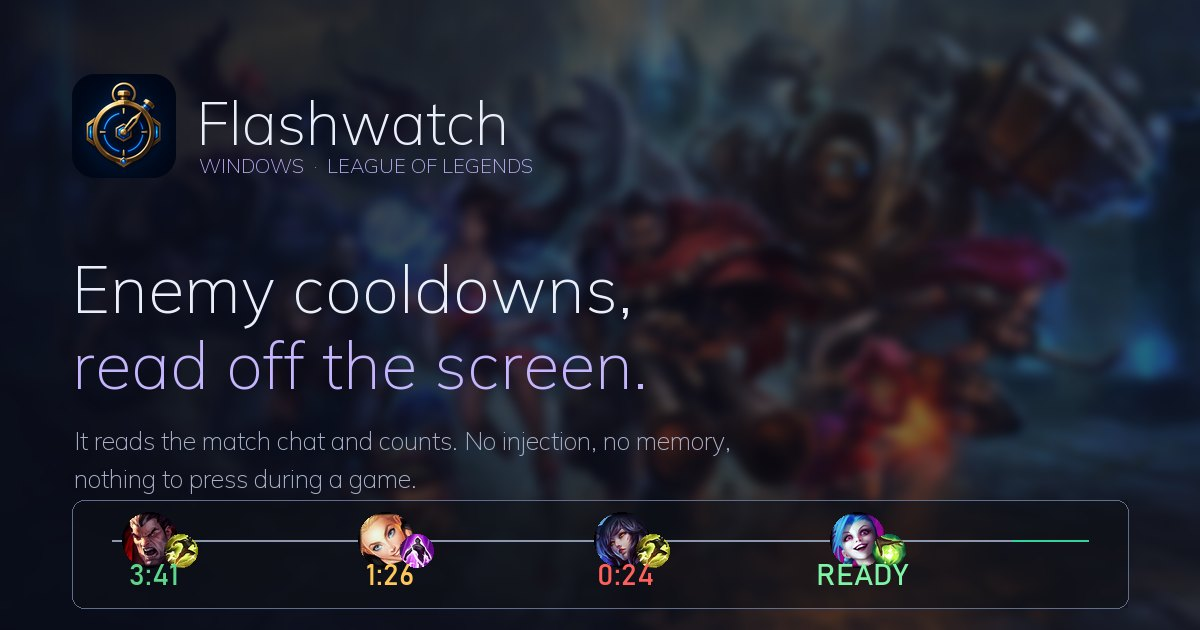
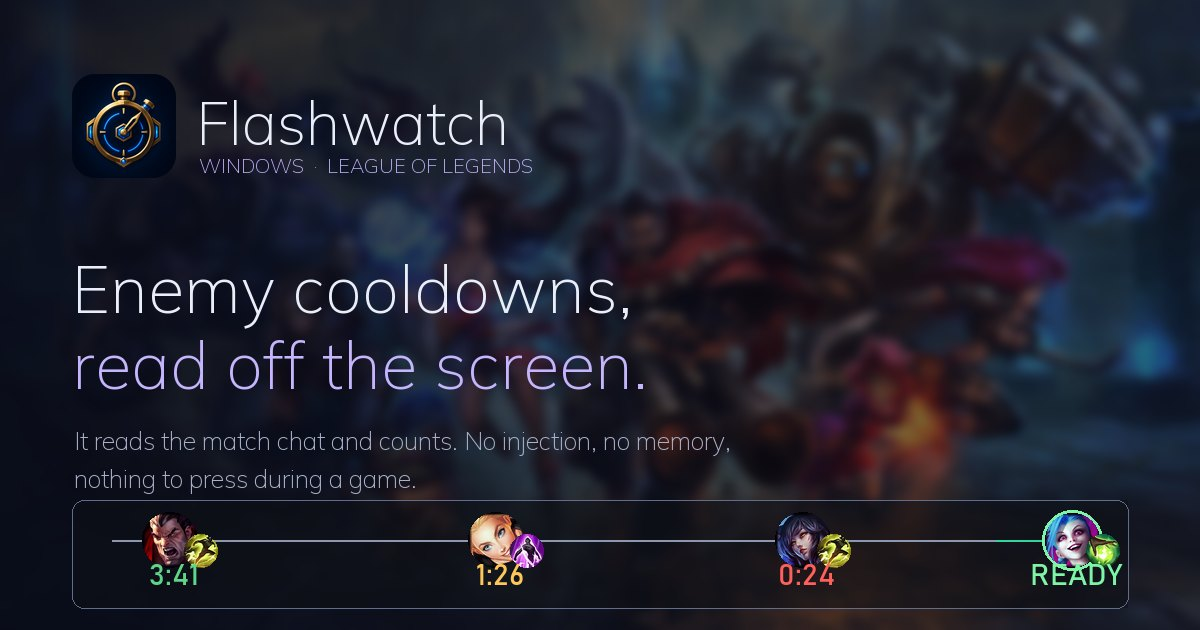
Put the ready spell where ready means: the end of the track [skip release]
The card spaced its four markers evenly, which says nothing -- on this display a
portrait's position *is* how far through its cooldown it is, and the one labelled
READY was sitting a fifth of the rail short of the end it has by definition
reached. Each marker now sits at its progress, the last one on the green arrival
segment, wearing the ring the overlay gives a spell that is back up.

The picture's URL carries the version: Discord proxies and caches images by URL,
so a redrawn card under the same name goes on unfurling as the old one.

diff --git a/site/index.html b/site/index.html
@@ -24,7 +24,7 @@
 <meta property="og:description" content="A Windows overlay that reads the League of Legends match chat and counts enemy summoner spells for you. One file, no installation, nothing injected into the game — and nothing to press while you play.">
 <meta property="og:type" content="website">
 <meta property="og:locale" content="en_GB">
-<meta property="og:image" content="https://flashwatch.vercel.app/og-image.jpg">
+<meta property="og:image" content="https://flashwatch.vercel.app/og-image.jpg?v=1.0.0">
 <meta property="og:image:type" content="image/jpeg">
 <meta property="og:image:width" content="1200">
 <meta property="og:image:height" content="630">
@@ -32,7 +32,7 @@
 <meta name="twitter:card" content="summary_large_image">
 <meta name="twitter:title" content="Flashwatch — enemy cooldowns, read off the screen">
 <meta name="twitter:description" content="A Windows overlay that reads the match chat and counts enemy summoner spells. One file, no installation, nothing injected.">
-<meta name="twitter:image" content="https://flashwatch.vercel.app/og-image.jpg">
+<meta name="twitter:image" content="https://flashwatch.vercel.app/og-image.jpg?v=1.0.0">
 
 <!-- ═══════════════════════════════════════════════════════════════════════
      À MODIFIER AVANT DE PUBLIER : une seule ligne, chercher GITHUB_USER

diff --git a/tools/make_og.py b/tools/make_og.py
@@ -37,11 +37,16 @@ FAR, MID, NEAR, READY = ((94, 214, 138), (255, 199, 88),
                          (255, 96, 92), (126, 245, 166))
 INK, DIM = (233, 238, 248), (169, 178, 200)
 
-# Four cooldowns, one per rung, as the bar would have them.
-ROW = [("Darius", "SummonerFlash", "3:41", FAR),
-       ("Lux", "SummonerTeleport", "1:26", MID),
-       ("Ahri", "SummonerFlash", "0:24", NEAR),
-       ("Jinx", "SummonerHeal", "READY", READY)]
+# Four cooldowns, one per rung, as the bar would have them -- and each one *at
+# its progress along the rail*, which is the whole idea of the display: where a
+# portrait sits is how far through its cooldown it is. Evenly spaced they would
+# say nothing, and the one marked READY would be sitting short of the end it has
+# by definition reached.
+RAIL = (112, 1072)
+ROW = [("Darius", "SummonerFlash", "3:41", FAR, 0.06),
+       ("Lux", "SummonerTeleport", "1:26", MID, 0.40),
+       ("Ahri", "SummonerFlash", "0:24", NEAR, 0.72),
+       ("Jinx", "SummonerHeal", "READY", READY, 1.00)]
 
 
 def font(path: Path, size: int) -> ImageFont.FreeTypeFont:
@@ -106,17 +111,22 @@ def main() -> int:
     card.paste(bar, (72, 500), bar)
     draw.rounded_rectangle([72, 500, 1128, 608], radius=12,
                            outline=(96, 110, 140, 120), width=1)
-    draw.line([(112, 540), (1088, 540)], fill=(140, 152, 175, 120), width=2)
-    draw.line([(1012, 540), (1088, 540)], fill=(52, 211, 153, 150), width=2)
+    draw.line([(RAIL[0], 540), (RAIL[1], 540)], fill=(140, 152, 175, 120), width=2)
+    draw.line([(RAIL[1] - 76, 540), (RAIL[1], 540)], fill=(52, 211, 153, 150),
+              width=2)
 
     time_font = font(BAHNSCHRIFT, 30)
-    for index, (champion, spell, text, colour) in enumerate(ROW):
-        x = 150 + index * 236
+    for champion, spell, text, colour, progress in ROW:
+        x = round(RAIL[0] + progress * (RAIL[1] - RAIL[0]))
         face = CACHE / "champions" / f"{champion}.png"
         icon = CACHE / "spells" / f"{spell}.png"
         if face.exists():
             portrait = circle(Image.open(face), 56)
             card.paste(portrait, (x - 28, 512), portrait)
+        # The ring the overlay puts round a spell that is back up, and only that
+        # one: it is the state worth catching before any number is read.
+        if progress >= 1.0:
+            draw.ellipse([x - 30, 510, x + 30, 570], outline=READY, width=3)
         if icon.exists():
             badge = circle(Image.open(icon), 34)
             card.paste(badge, (x + 14, 534), badge)
